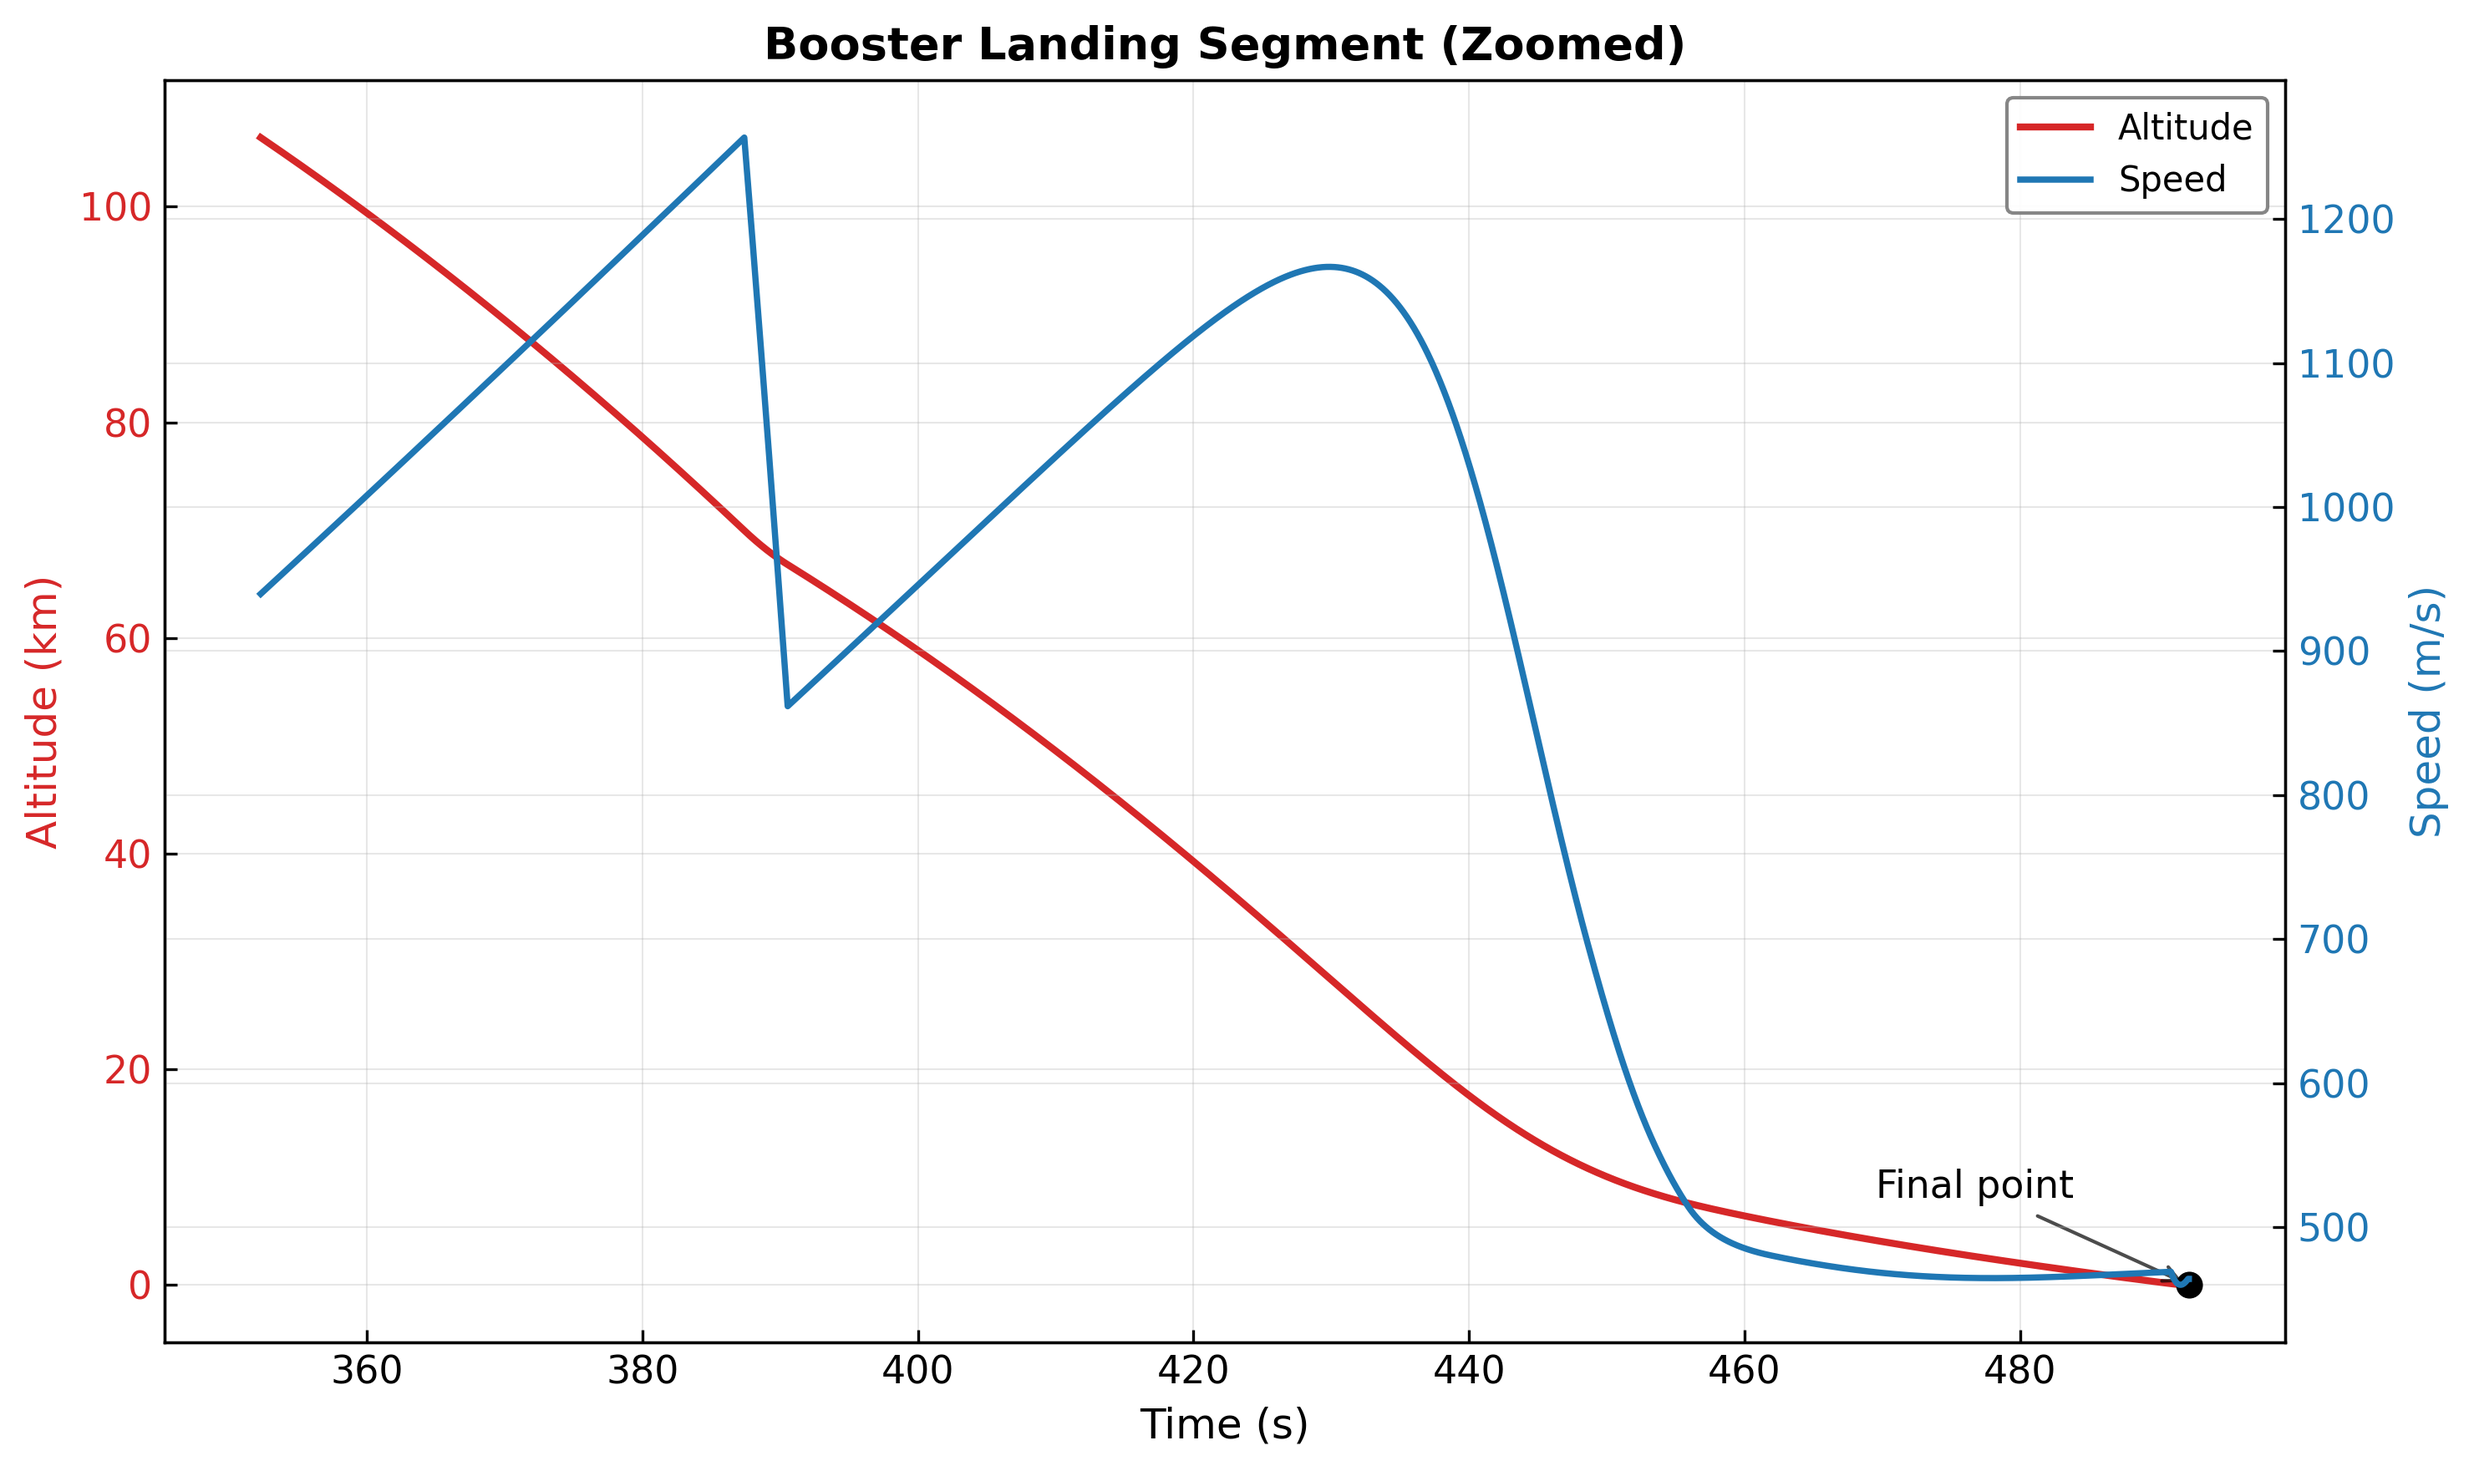
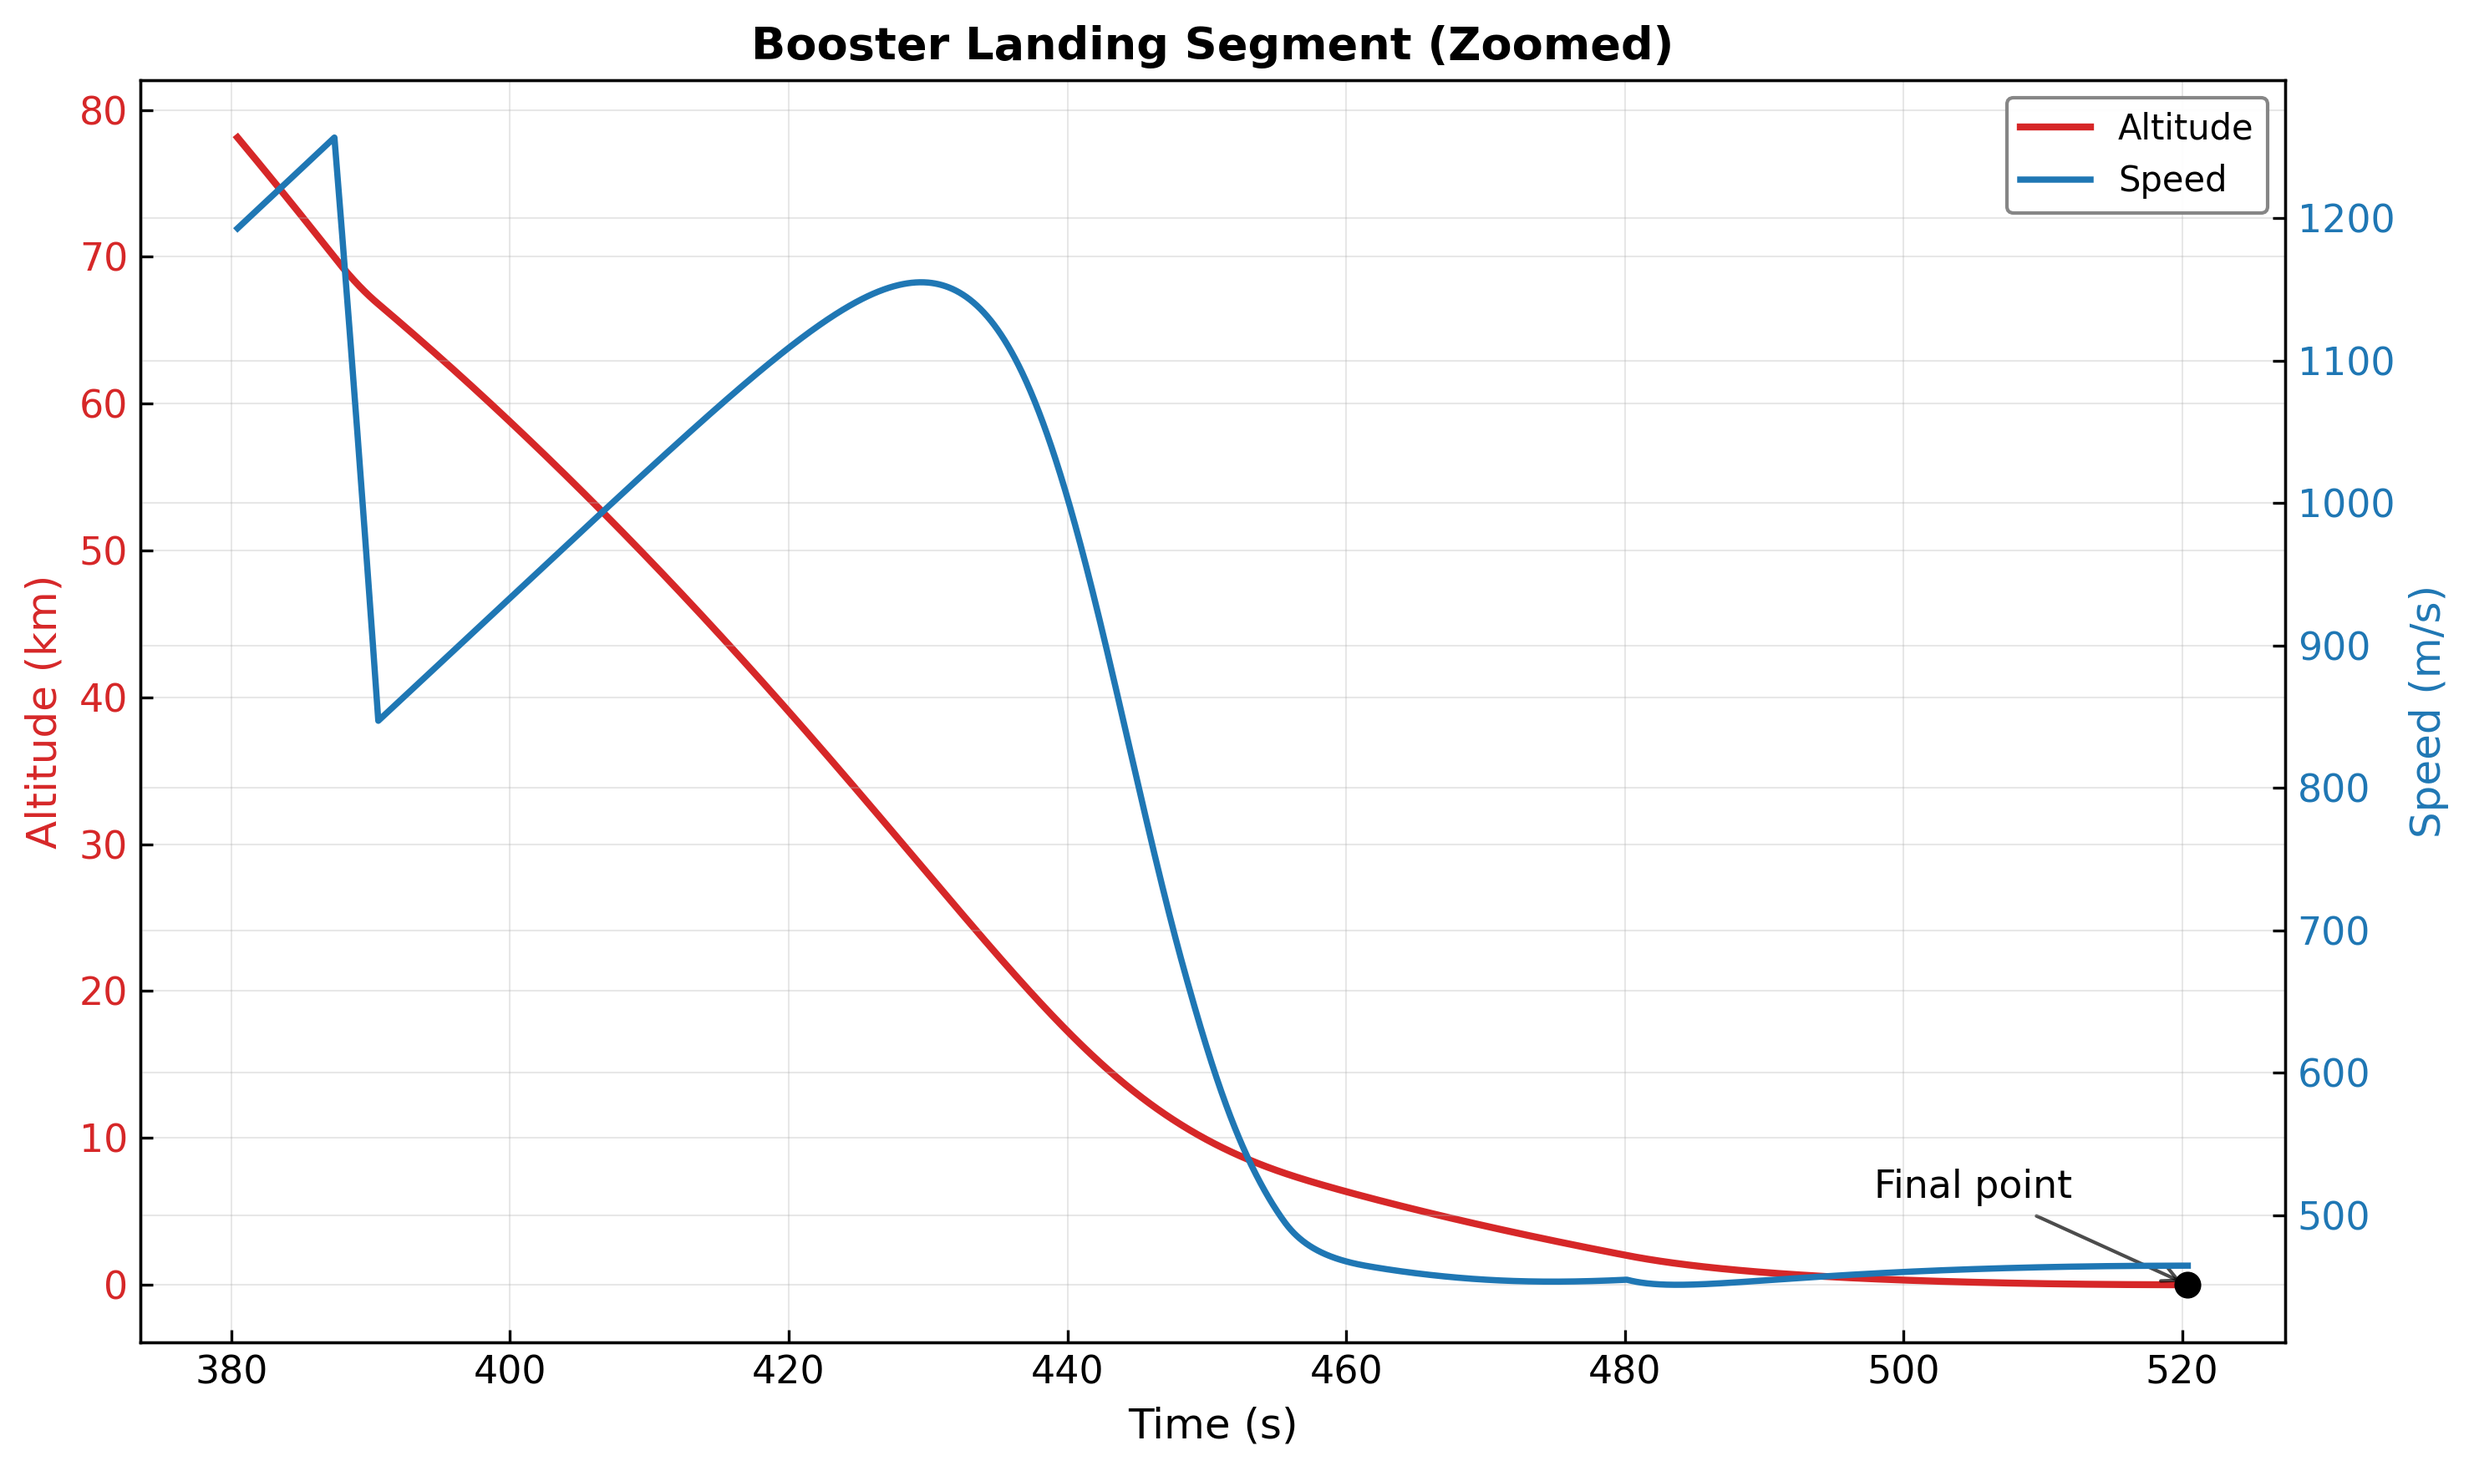
feat: add ZEM/ZEV landing divert guidance with altitude-floor trigger
Implement Zero-Effort-Miss / Zero-Effort-Velocity (ZEM/ZEV) terminal
guidance for RTLS booster landing, replacing the purely reactive
energy-based ignition with a proactive divert-capable law.

Key changes:
- guidance.py: Full ZEM/ZEV implementation for BOOSTER_LANDING phase
  * Horizontal divert = (6/t_go²)·ZEM − (2/t_go)·ZEV (optimal min-ΔV)
  * Thrust budget: sqrt(F²−F_vert²) so vertical authority is preserved
  * Reachability guard: falls back to ZEV-only when pad > 0.5·a·t_go²
  * altitude_start latch: burn ignites at 2000 m even if energy estimate
    not yet triggered
- mission_manager.py: Add minimum-altitude floor trigger (2000 m) to
  BOOSTER_ENTRY → BOOSTER_LANDING transition, giving ZEM/ZEV ~25 s of
  burn time instead of ~1 s from the unaided energy estimate
- config.py: New `booster_landing_min_altitude_m = 2000.0` parameter
- tests: Update test_ignition_model_is_consistent to accept dual-trigger
  behaviour (energy OR altitude floor)
- plots: Regenerate all 66 plots with new landing trajectory

Result (dt=0.05): Touchdown 0.95 m/s (< 5 m/s contract), propellant
remaining 2451 kg — previously booster impacted at 465 m/s (ECI) due
to energy-based latch oscillation and late ignition at ~96 m.

diff --git a/rlv_sim/guidance.py b/rlv_sim/guidance.py
@@ -805,7 +805,16 @@ def compute_booster_guidance(
         # so actual mean deceleration exceeds the constant-a estimate used by
         # estimate_suicide_burn). Without this latch the burn oscillates every
         # timestep and the vehicle impacts at near-ballistic speed.
-        if burn_params['ignite'] or gs.booster_landing_burn_started:
+        #
+        # Also start the burn immediately when altitude drops below the configured
+        # minimum, regardless of the energy estimate.  The mission manager may
+        # enter BOOSTER_LANDING via an altitude-floor trigger (not energy-based),
+        # in which case burn_params['ignite'] will still be False even though we
+        # are in the landing phase and need thrust for ZEM/ZEV divert.
+        min_land_alt = cfg.booster_landing_min_altitude_m if cfg is not None else 2000.0
+        altitude_start = altitude < min_land_alt
+
+        if burn_params['ignite'] or gs.booster_landing_burn_started or altitude_start:
             gs.booster_landing_burn_started = True
             thrust_on = True
 
@@ -860,32 +869,42 @@ def compute_booster_guidance(
             r_to_pad = launch_site - r
             r_err_horiz = r_to_pad - float(np.dot(r_to_pad, vertical)) * vertical
 
-            # ZEM and divert command
-            zem = r_err_horiz - v_horiz_vec * t_go
-            a_divert = (6.0 / (t_go ** 2)) * zem - (2.0 / t_go) * v_horiz_vec
-
-            # Thrust budget constraint (hard):
-            #   Vertical authority takes priority.  After allocating thrust
-            #   for a_vert_needed, whatever remains can be used for divert.
-            #
-            #   a_avail_horiz = sqrt( t_accel² − min(a_vert, t_accel)² )
-            #
-            # This guarantees throttle ≤ 1.0 and that the vertical
-            # deceleration requirement is always fully met.
-            #
-            # Tilt constraint (soft, secondary):
-            #   Never tilt more than 45° from vertical for structural safety
-            #   and to preserve attitude control authority.
-            #
-            #   a_horiz_tilt_limit = a_vert_needed × tan(45°) = a_vert_needed
-            #
-            # The effective horizontal budget is the minimum of both.
+            # Thrust budget constraint:
+            #   Vertical authority takes priority.  After meeting a_vert_needed,
+            #   whatever remains can be used for horizontal divert.
+            #   Tilt capped at 45° from vertical for structural/control safety.
             a_vert_for_budget = min(a_vert_needed, t_accel)
             a_avail_horiz = float(np.sqrt(
                 max(t_accel ** 2 - a_vert_for_budget ** 2, 0.0)
             ))
             _tan45 = 1.0  # tan(45°)
             a_horiz_budget = min(a_avail_horiz, a_vert_for_budget * _tan45)
+
+            # Reachability check:
+            #   ZEM/ZEV is only valid when the position error can actually be
+            #   closed in t_go with the available horizontal acceleration.
+            #   Maximum reachable distance: d = 0.5 * a_budget * t_go²
+            #
+            #   If r_err > d_reachable: the pad is too far away to reach in
+            #   the remaining time, so use ZEV-only guidance (kill lateral
+            #   velocity to land softly) rather than chasing an unreachable
+            #   target that would pile on horizontal velocity at touchdown.
+            r_err_mag = float(np.linalg.norm(r_err_horiz))
+            d_reachable = 0.5 * a_horiz_budget * t_go ** 2
+
+            if r_err_mag <= d_reachable and r_err_mag > 1.0:
+                # Pad reachable — full ZEM/ZEV: drive position and velocity
+                # error to zero simultaneously at t_go.
+                zem = r_err_horiz - v_horiz_vec * t_go
+                a_divert = (6.0 / (t_go ** 2)) * zem - (2.0 / t_go) * v_horiz_vec
+            else:
+                # Pad unreachable this burn — fall back to ZEV-only: kill
+                # lateral velocity with a smooth proportional command.
+                # Use t_go floored so accel never exceeds horizontal budget.
+                t_go_zev = max(t_go, v_horiz_mag / max(a_horiz_budget, 1e-6))
+                a_divert = -(2.0 / t_go_zev) * v_horiz_vec
+
+            # Apply budget clamp
             a_divert_mag = float(np.linalg.norm(a_divert))
             if a_divert_mag > a_horiz_budget and a_divert_mag > 1e-6:
                 a_divert = a_divert * (a_horiz_budget / a_divert_mag)

diff --git a/rlv_sim/mission_manager.py b/rlv_sim/mission_manager.py
@@ -364,10 +364,17 @@ class MissionManager:
                     self._phase_entry_time = state.t
 
             # ENTRY -> LANDING
-            # Physics: Transition to landing phase when the vehicle's
-            # mechanical energy (KE + PE) exceeds the available thrust work
-            # from Tsiolkovsky integration (accounts for variable mass).
-            # The safety_factor controls how early ignition triggers.
+            # Physics: Transition to landing phase when EITHER:
+            #   (a) The energy-based ignition estimate triggers (Tsiolkovsky
+            #       integration accounting for variable mass), OR
+            #   (b) Altitude drops below the minimum landing burn altitude.
+            #
+            # The minimum altitude floor (b) is critical for ZEM/ZEV divert
+            # guidance.  Without it the energy estimator may not trigger until
+            # < 100 m (after a slow entry burn), leaving only ~1 s to close a
+            # 10+ km position error to the pad.  Starting at 2000 m gives the
+            # ZEM/ZEV law ~25 s to both decelerate and translate to the pad
+            # while keeping propellant consumption within the landing reserve.
             elif self.current_phase == MissionPhase.BOOSTER_ENTRY:
                 burn = estimate_suicide_burn(
                     state.r,
@@ -378,15 +385,28 @@ class MissionManager:
                 )
                 h_ignite = float(burn['burn_altitude'])
 
-                landing_trigger = (
-                    burn['ignite'] and
+                # (a) Energy-based ignition
+                energy_trigger = burn['ignite'] and radial_velocity < 0.0
+
+                # (b) Minimum altitude floor — ensure ZEM/ZEV has enough time
+                min_land_alt = self.config.booster_landing_min_altitude_m
+                altitude_trigger = (
+                    state.altitude < min_land_alt and
                     radial_velocity < 0.0  # Must be descending
                 )
 
+                landing_trigger = energy_trigger or altitude_trigger
+                trigger_reason = (
+                    "energy_ignition" if energy_trigger else "min_altitude_floor"
+                )
+
                 if landing_trigger:
-                    logger.info(f"Booster Landing Phase at t={state.t:.2f}s, "
-                               f"Alt={state.altitude/1000:.1f}km, "
-                               f"h_ignite={h_ignite:.0f}m")
+                    logger.info(
+                        f"Booster Landing Phase at t={state.t:.2f}s, "
+                        f"Alt={state.altitude/1000:.1f}km, "
+                        f"h_ignite={h_ignite:.0f}m, "
+                        f"trigger={trigger_reason}"
+                    )
                     self.current_phase = MissionPhase.BOOSTER_LANDING
                     self._phase_entry_time = state.t
         self._last_radial_velocity = radial_velocity

diff --git a/rlv_sim/config.py b/rlv_sim/config.py
@@ -61,6 +61,15 @@ class SimulationConfig:
     booster_entry_burn_min_altitude_m: float = 35000.0
     booster_entry_burn_min_speed_mps: float = 800.0
     booster_landing_ignition_safety_factor: float = 1.5
+    # Minimum altitude at which landing burn must start regardless of the
+    # energy-based ignition estimate.  Without this floor the energy estimator
+    # may not trigger until < 100 m (after a slow entry burn), leaving the
+    # ZEM/ZEV divert guidance only ~1 s to close a 10+ km position error.
+    # Propellant budget:  at 2000 m the vertical-only landing burn requires
+    # ~4867 kg; with 45° ZEM/ZEV tilt overhead ~6883 kg < 8912 kg available.
+    # At 3000 m with 45° tilt the requirement rises to ~9861 kg (exceeds budget).
+    # 2000 m gives ~25 s of burn time while keeping propellant within margin.
+    booster_landing_min_altitude_m: float = 2000.0
     # RTLS target site measured from launch site along local-east surface arc.
     # Cape Canaveral references:
     #   SLC-40 -> LZ-1/2 ~= 9.65 km

diff --git a/tests/test_physics_corrective_plan.py b/tests/test_physics_corrective_plan.py
@@ -82,7 +82,19 @@ def test_ignition_model_is_consistent_between_manager_and_guidance_path():
     mgr.update(state, dt=0.1)
 
     transitioned = mgr.get_phase() == MissionPhase.BOOSTER_LANDING
-    assert transitioned == bool(burn["ignite"])
+
+    # The manager now has two triggers:
+    #   (a) energy-based ignition estimate (original behaviour)
+    #   (b) altitude-floor override so ZEM/ZEV has enough time to divert to pad
+    # Both should cause a transition; neither alone is sufficient to *prevent* one.
+    r_norm = float(np.linalg.norm(state.r))
+    radial_vel = float(np.dot(state.r, state.v) / r_norm)
+    altitude = r_norm - C.R_EARTH
+    altitude_floor_trigger = (
+        altitude < cfg.booster_landing_min_altitude_m and radial_vel < 0.0
+    )
+    expected = bool(burn["ignite"]) or altitude_floor_trigger
+    assert transitioned == expected
 
 
 def test_boostback_reserve_guard_protects_entry_and_landing_budget():
